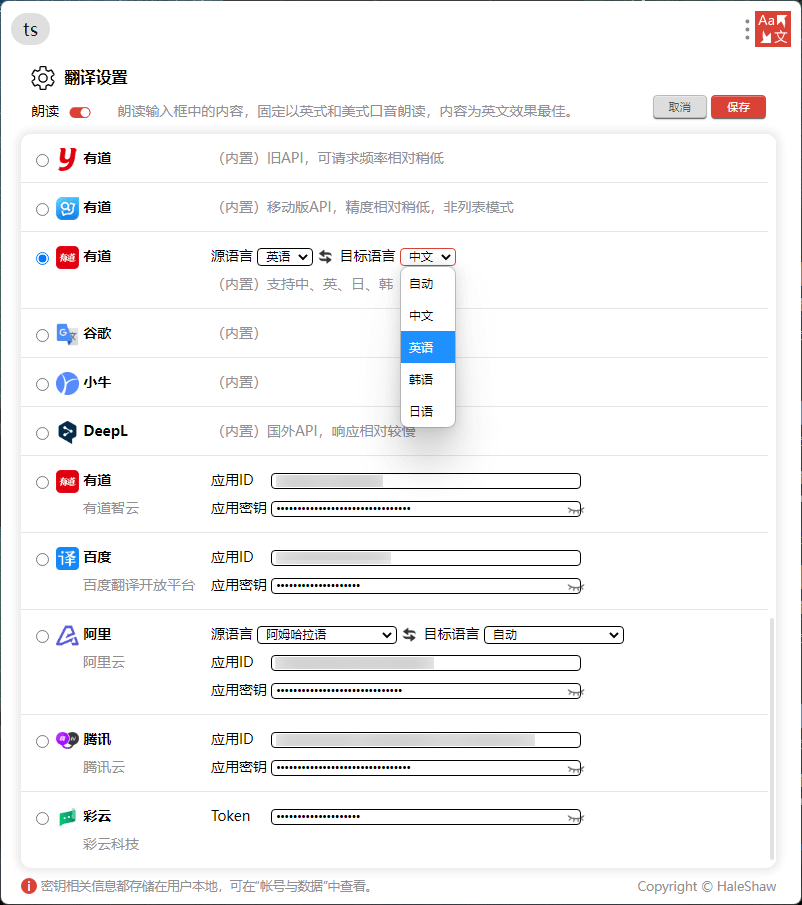
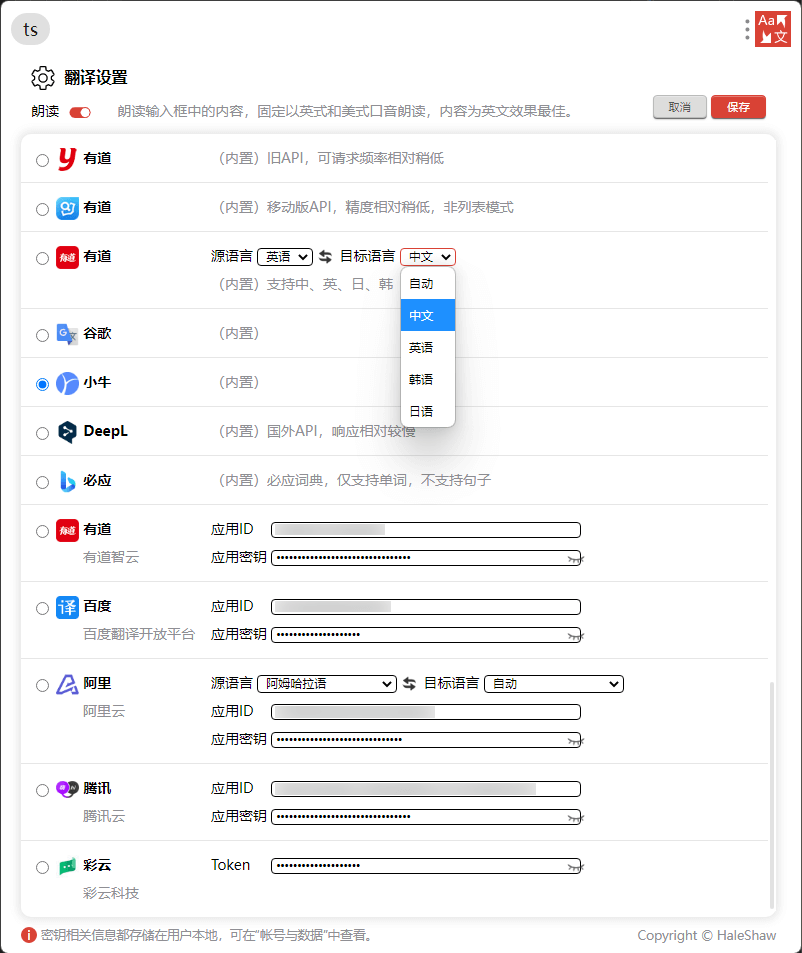
Add bing API

diff --git a/assets/js/bing.js b/assets/js/bing.js
@@ -1,0 +1,45 @@
+async function lookupBing(word) {
+  let data = [];
+  const api = options.bing.api;
+  let url = api + encodeURIComponent(word);
+  let response = await get(url);
+
+  var parser = new DOMParser();
+  let doc = parser.parseFromString(response, "text/html");
+  let trans = doc.querySelectorAll(".qdef ul li");
+  let forms = doc.querySelector(".qdef .hd_if");
+  if (trans && trans.length != 0) {
+    for (let i = 0; i < trans.length; i++) {
+      let tranStr = "";
+      let tranNodes = trans[i].children;
+      for (let j = 0; j < tranNodes.length; j++) {
+        tranStr += tranNodes[j].innerText.trim() + " ";
+      }
+      let dataTitle = `<span class="translation">${tranStr.trim()}</span>`;
+      if (i == 0 && speak) {
+        const phoneticEn = getPhoneticEn(word);
+        const phoneticUs = getPhoneticUs(word);
+        dataTitle += `<span>英</span>${phoneticEn}<span>美</span>${phoneticUs}`;
+      }
+      data.push({
+        title: dataTitle,
+        description: "基本释义",
+      });
+    }
+  } else {
+    data.push({
+      title: errTitle,
+      description: "翻译错误，可进入设置页面切换其他API",
+    });
+    return data;
+  }
+
+  if (forms) {
+    data.push({
+      title: forms.innerText.trim(),
+      description: "变形",
+    });
+  }
+
+  return data;
+}

diff --git a/index.html b/index.html
@@ -124,6 +124,18 @@
             <a class="comment">（内置）国外API，响应相对较慢</a>
           </div>
         </div>
+        <div class="service bing">
+          <div class="api">
+            <label>
+              <input name="service" type="radio" value="bing" />
+              <img src="./assets//images/icon/bing.png" class="compatible" />
+              <span>必应</span>
+            </label>
+          </div>
+          <div class="detail">
+            <a class="comment">（内置）必应词典，仅支持单词，不支持句子</a>
+          </div>
+        </div>
         <div class="service youDao">
           <div class="api">
             <label>
@@ -301,6 +313,7 @@
     <script src="assets/js/baiDu.js"></script>
     <script src="assets/js/aliYun.js"></script>
     <script src="assets/js/deepL.js"></script>
+    <script src="assets/js/bing.js"></script>
     <script src="assets/js/caiYun.js"></script>
     <script src="assets/js/xiaoNiu.js"></script>
     <script src="assets/js/setting.js"></script>

diff --git a/assets/js/index.js b/assets/js/index.js
@@ -120,18 +120,21 @@ async function switchApi(word) {
         data = await lookupDeepL(word);
         break;
       case Object.keys(options)[6]:
-        data = await lookupYouDao(word);
+        data = await lookupBing(word);
         break;
       case Object.keys(options)[7]:
-        data = await lookupBaiDu(word);
+        data = await lookupYouDao(word);
         break;
       case Object.keys(options)[8]:
-        data = await lookupAliYun(word);
+        data = await lookupBaiDu(word);
         break;
       case Object.keys(options)[9]:
-        data = await lookupTencent(word);
+        data = await lookupAliYun(word);
         break;
       case Object.keys(options)[10]:
+        data = await lookupTencent(word);
+        break;
+      case Object.keys(options)[11]:
         data = await lookupCaiYun(word);
         break;
       default:

diff --git a/assets/js/setting.js b/assets/js/setting.js
@@ -31,6 +31,10 @@ const options = {
     name: "DeepL",
     api: "https://www2.deepl.com/jsonrpc?method=LMT_handle_jobs",
   },
+  bing: {
+    name: "必应",
+    api: "http://cn.bing.com/dict/search?q=",
+  },
   youDao: {
     name: "有道",
     api: "http://openapi.youdao.com/api",

diff --git a/README.md b/README.md
@@ -104,6 +104,12 @@ uTools 插件 - 翻译
 
   国外API，响应相对较慢。
 
+- 必应
+
+  <http://cn.bing.com/dict>
+
+  必应词典，仅支持单词，不支持句子。
+
 - 有道翻译
 
   <http://openapi.youdao.com/api>
